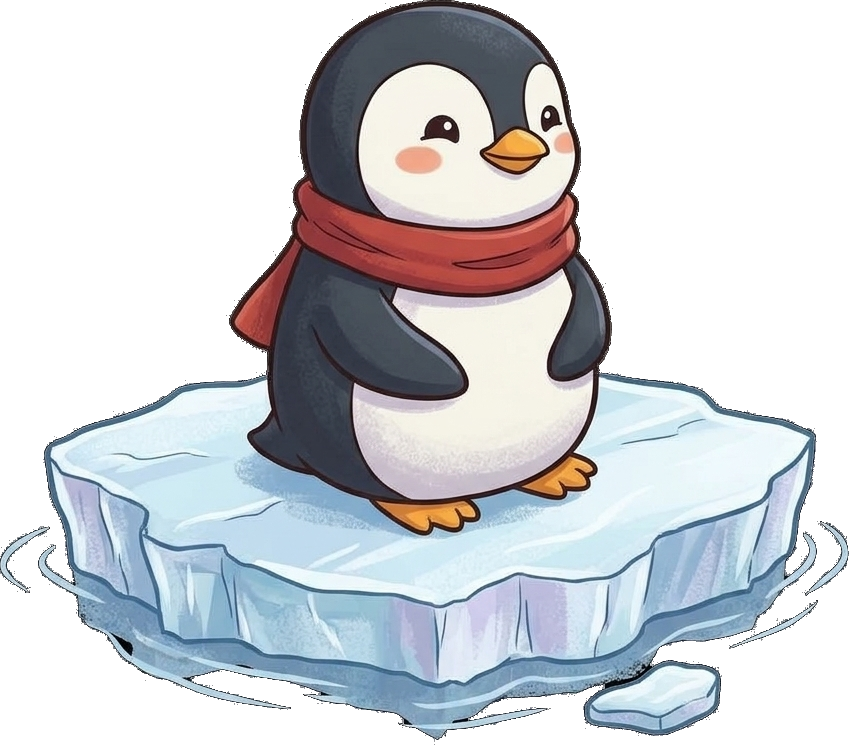
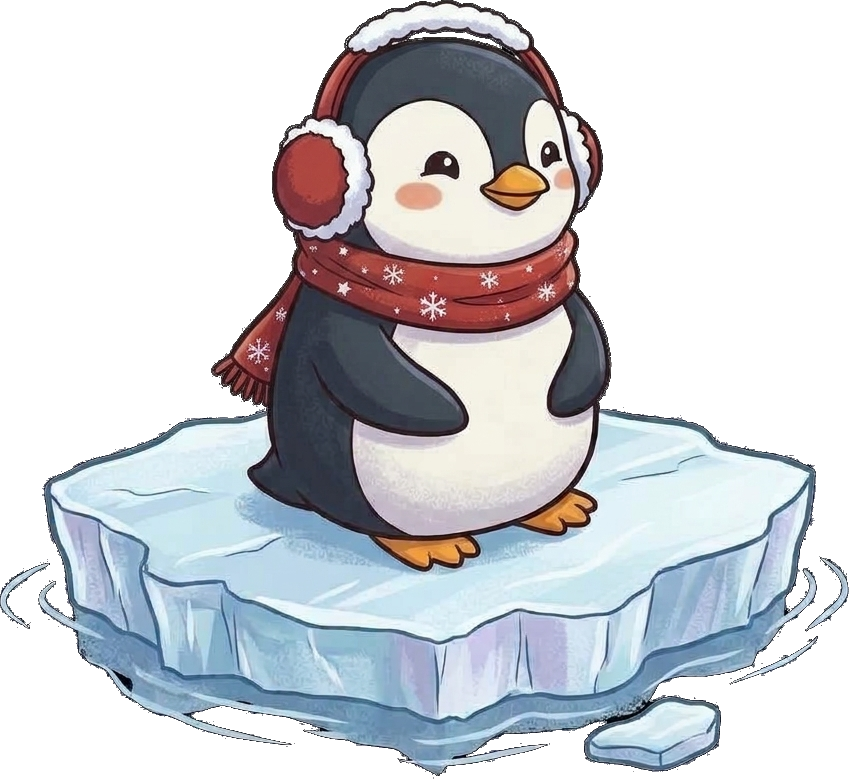
更新企鵝造型與百搭牌使用新版麻雀圖案

Changed region(s): [[0.0, 0.0, 1.0, 1.0]]

diff --git a/js/game.js b/js/game.js
@@ -14,11 +14,11 @@ import {
   WINDS, ORPHANS, PATTERN_TABLE, FLOWER_PATTERN_TABLE, countTiles, randomTileKind,
   evaluateHand, findWaits, formatWinBreakdown, isThirteenOrphans,
   withFlowers, flowerWin, flowerWinResult, sortPatternRows,
-} from './rules.js?v=1.4.161';
+} from './rules.js?v=1.4.162';
 import {
   wildcardWaitTiles, characterAbility, bonusFanFor, applyAbilityMoney,
   cooldownReady, startCooldown,
-} from './abilities.js?v=1.4.161';
+} from './abilities.js?v=1.4.162';
 
 const canvas = document.getElementById('game');
 const ctx = canvas.getContext('2d');
@@ -7583,13 +7583,13 @@ async function boot() {
       wildcardImage = new Image();
       wildcardImage.onload = () => resolve();
       wildcardImage.onerror = () => resolve();
-      wildcardImage.src = 'assets/tiles/wildcard.png?v=1.4.161';
+      wildcardImage.src = 'assets/tiles/wildcard.png?v=1.4.162';
     }),
     new Promise((resolve) => {
       inkSplashImage = new Image();
       inkSplashImage.onload = () => resolve();
       inkSplashImage.onerror = () => resolve();
-      inkSplashImage.src = 'assets/icons/ink-splash.png?v=1.4.161';
+      inkSplashImage.src = 'assets/icons/ink-splash.png?v=1.4.162';
     }),
   ]);
   game.images = { ...loaded.images, WILD: wildcardImage };

diff --git a/index.html b/index.html
@@ -9,7 +9,7 @@
 <link rel="preconnect" href="https://fonts.googleapis.com" />
 <link rel="preconnect" href="https://fonts.gstatic.com" crossorigin />
 <link href="https://fonts.googleapis.com/css2?family=Noto+Sans+TC:wght@400;500;700&display=swap" rel="stylesheet" />
-<link rel="stylesheet" href="css/style.css?v=1.4.161" />
+<link rel="stylesheet" href="css/style.css?v=1.4.162" />
 </head>
 <body>
 <canvas id="game" aria-label="釣魚遊戲畫面"></canvas>
@@ -359,6 +359,6 @@
 </section>
 
 <script src="https://cdn.jsdelivr.net/npm/peerjs@1.5.4/dist/peerjs.min.js" onerror="this.onerror=null;this.src='js/vendor/peerjs.min.js'"></script>
-<script type="module" src="js/game.js?v=1.4.161"></script>
+<script type="module" src="js/game.js?v=1.4.162"></script>
 </body>
 </html>

diff --git a/README.md b/README.md
@@ -1,6 +1,6 @@
 # 香港麻雀釣魚
 
-**立即遊玩：** https://timmylaikh.github.io/Mahjong-fishing/?v=1.4.161
+**立即遊玩：** https://timmylaikh.github.io/Mahjong-fishing/?v=1.4.162
 
 一個**純靜態**的香港麻雀釣魚小遊戲：在海底釣起麻將牌，湊成四組一將並胡牌。沒有框架、沒有打包步驟；所有規則判定都由 `js/rules.js` 這個純模組負責，因此 `node tests/rules.test.mjs` 可以直接在 Node 執行。
 

diff --git a/CHANGELOG.md b/CHANGELOG.md
@@ -1,3 +1,8 @@
+## 1.4.162 — 企鵝與百搭牌素材更新
+
+- 換上最新的企鵝造型。
+- 白搭牌改用新版麻雀造型，延用白版牌面。
+
 ## 1.4.161 — 龍與招財貓圖示更新
 
 - 更新神龍角色圖片為綠龍新設計。
